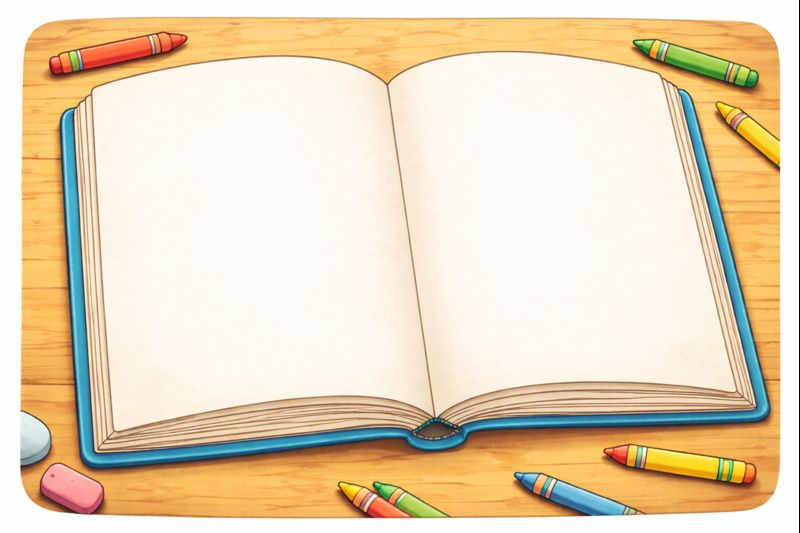
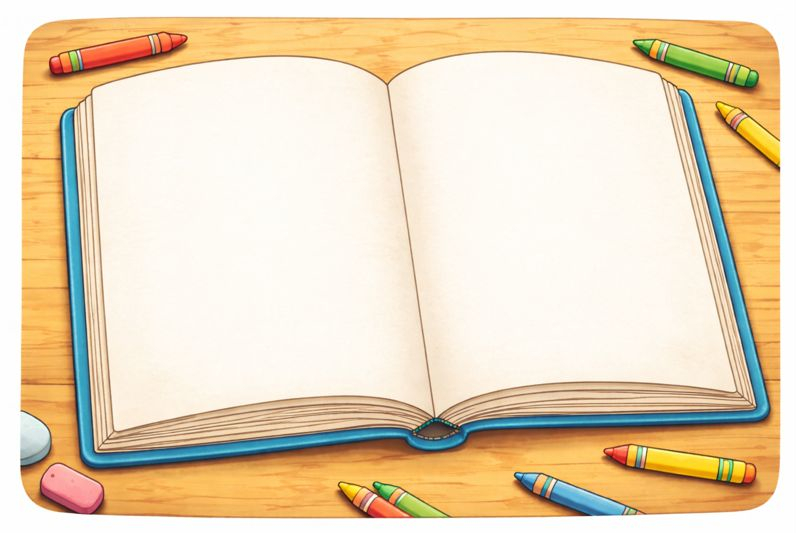
Fix: Storytime screen size adjusted

diff --git a/school/downstairs/classroomsDownstairs/german/Storytime/storytime.html b/school/downstairs/classroomsDownstairs/german/Storytime/storytime.html
@@ -8,13 +8,21 @@
 
     <style>
       body {
-        position: relative;
+        /* position: relative; */
         margin: 0;
         height: 100vh;
         font-family: Grundschrift, sans-serif;
-        display: flex;
-        flex-wrap: wrap;
+        /* display: flex;
+        flex-wrap: wrap; */
       }
+
+      .container {
+        max-width: 1400px;
+        position: relative;
+        margin: 0 auto;
+        aspect-ratio: 3 / 2;
+      }
+      /* 
       img {
         position: absolute;
         top: 0;
@@ -22,6 +30,12 @@
         margin: 0 auto;
         width: 100%;
         height: 100%;
+      } */
+
+      img {
+        margin: 0 auto;
+        width: 100%;
+        /* height: 100%; */
       }
 
       #backBtn {
@@ -38,6 +52,10 @@
         z-index: 1000;
       }
 
+      #backBtn:hover {
+        transform: scale(1.1);
+      }
+
       #story {
         position: absolute;
         top: 20%;
@@ -49,6 +67,7 @@
         height: 55%;
         overflow: scroll;
       }
+
       #right {
         position: absolute;
         top: 30%;
@@ -58,9 +77,9 @@
         align-items: center;
         width: 30%;
       }
-      input {
-        font-size: 1.3rem;
 
+      input {
+        font-size: 1.4rem;
         width: fit-content;
         border-radius: 10px;
         border: 2px solid #020202;
@@ -92,20 +111,22 @@
   </head>
 
   <body>
-    <h1>📖 Welches Märchen ist das?</h1>
-    <button id="backBtn">← Zurück</button>
-    <img
-      src="../../../../../pictures/Märchenbuch.jpeg"
-      alt="Illustration eines Märchenbuchs"
-    />
+    <div class="container">
+      <!-- <h1>📖 Welches Märchen ist das?</h1> -->
+      <button id="backBtn">← Zurück</button>
+      <img
+        src="../../../../../pictures/Märchenbuch.jpeg"
+        alt="Illustration eines Märchenbuchs"
+      />
 
-    <div id="story"></div>
+      <div id="story"></div>
 
-    <div id="right">
-      <input id="answer" type="text" placeholder="Wie heißt das Märchen?" />
-      <button id="checkBtn">✅</button>
+      <div id="right">
+        <input id="answer" type="text" placeholder="Wie heißt das Märchen?" />
+        <button id="checkBtn">✅</button>
+      </div>
+
+      <canvas id="confetti"></canvas>
     </div>
-
-    <canvas id="confetti"></canvas>
   </body>
 </html>